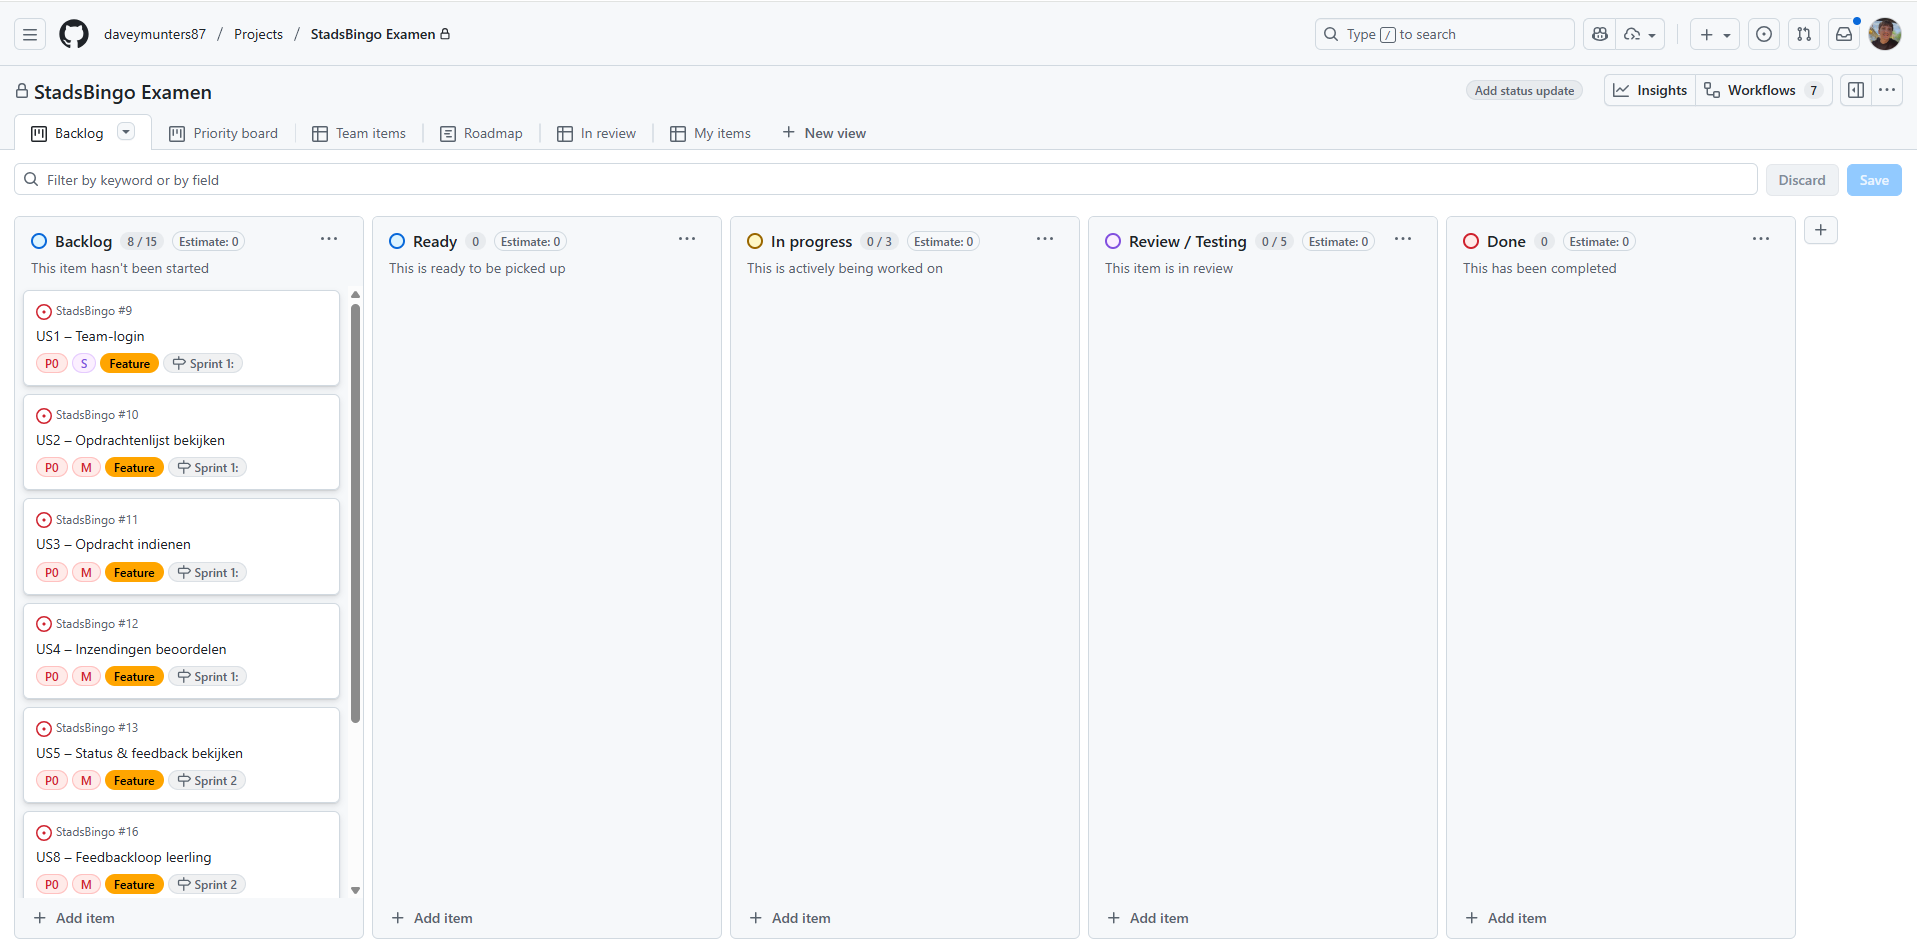
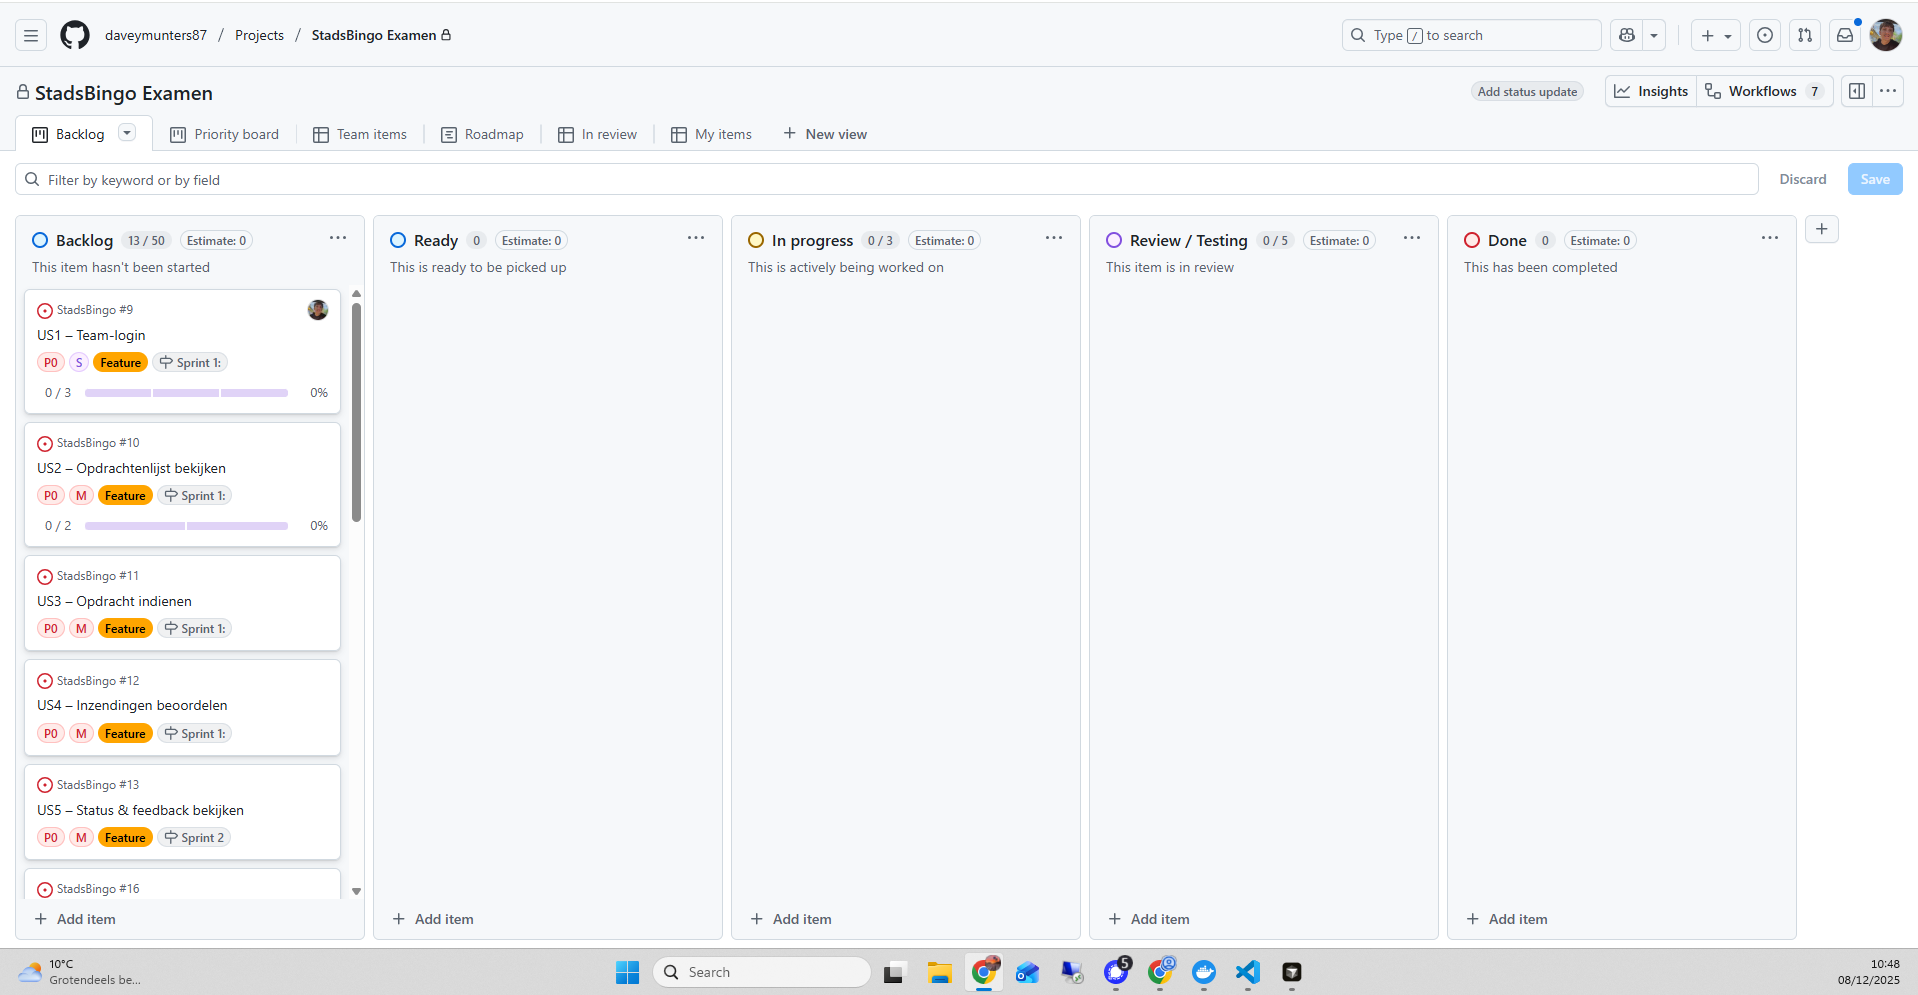
Start of sprint1

diff --git a/examen/dagplanning.md b/examen/dagplanning.md
@@ -1,0 +1,58 @@
+# Dagplanning – StadsBingo
+
+Handig om criteria 1.1–1.4 meteen te dekken (stories, planning, voortgangsbewaking). Vul per dag kort aan wat je echt hebt gedaan en voeg links/snapshots toe.
+
+## Dag 1 (start)
+- Backlog klaarzetten: zorg dat alle user stories uit `01_plant_werkzaamheden.md` in je board/tool staan (incl. MoSCoW en uren). Noteer ticket-IDs in de stories.
+- Planning controleren: check dat Sprint 1 stories overeenkomen met de planningstabel (10u vs 40u capaciteit). Pas aan als nodig en log een korte motivatie.
+- Screenshot sprint board (begin): plaats in `examen/bewijsmateriaal/01/sprint1_start.png` (of vervang als er al een staat).
+- Projectomschrijving & DoD: verifieer dat de omschrijving/DoD in `01_plant_werkzaamheden.md` klopt met de huidige scope; maak zo nodig een mini-update met een korte notitie in dit bestand (geen grote tekstblokken).
+- Repo-check: zorg dat branches/commits klaarstaan; maak eerste commit “chore: init sprint 1 planning” zodra board en planning op orde zijn.
+- Notitie voortgang: noteer in dit bestand (onder “Dag 1 – log”) wat je vandaag hebt gepland/besloten.
+
+## Dag 2
+- Ontwikkel focus: pak “Inloggen met teamcode” en “Opdrachtenlijst” op. Werk in kleine commits.
+- Bewijs: screenshot van board met statusupdate (bijv. tickets in In Progress) en plaats in `examen/bewijsmateriaal/01/`.
+- Korte log (in dit bestand): wat gestart/afgerond, blokkades, keuzes.
+
+## Dag 3
+- Ontwikkel focus: “Inzendingen beoordelen” + afronden leerling-flow basis.
+- Bewijs: nieuwe board-screenshot met voortgang; link in log.
+- Eventuele demo/gif van basisflow (optioneel) toevoegen aan `examen/bewijsmateriaal/01/`.
+
+## Dag 4
+- Bugfix/afmaken Sprint 1 DoD. Kleine UX fixes als tijd over is.
+- Retro voorbereiden: noteer wat goed/fout ging, doorlooptijd per story (korte bullets hier).
+- Bewijs: eind-screenshot Sprint 1 board (`sprint1_end.png`), commitlijst updaten.
+
+## Dag 5
+- Sprint 2 planning bijwerken (filters/voortgangsvisuals). Controleer uren vs 40u capaciteit.
+- Screenshot Sprint 2 start board (`sprint2_start.png`).
+- Start implementatie filters of voortgangsbalken.
+
+## Dag 6
+- Ontwikkel focus: voortgangsbalken + status/feedback weergave.
+- Bewijs: board-screenshot + korte log (beslissingen/afwegingen).
+- Eventueel korte video/gif van voortgangsweergave.
+
+## Dag 7
+- Afronden Sprint 2 DoD, restpunten/bugs wegwerken.
+- Eind-screenshot Sprint 2 board (als relevant) en korte afsluitlog.
+- Check documentatie: `01_plant_werkzaamheden.md` en bewijsbestanden up-to-date.
+
+---
+
+### Logs (vul per dag aan)
+- Dag 1:
+Vandaag zijn we begonnen met sprint1. Voor dag 1 willen we graag alles op orde hebben wat er moet gebeuren en welke bewijsmaterialen er voor, tijdens en na de sprint aangeleverd moeten worden. Vandaag gaan we bezig met:
+    - Planning sprint 1
+    - Bewijsmaterialen aanleveren
+    - Repo structure opzetten.
+
+- Dag 2: …
+- Dag 3: …
+- Dag 4: …
+- Dag 5: …
+- Dag 6: …
+- Dag 7: …
+

diff --git a/examen/bewijsmateriaal/01/commit_list_sprint1.md b/examen/bewijsmateriaal/01/commit_list_sprint1.md
@@ -1,6 +1,6 @@
 # Sprint 1 – Commit overzicht
 
-**Periode:** 17-11-2025 t/m 01-12-2025  
+**Periode:** 08-12-2025 t/m 08-01-2026  
 **Project:** StadsBingo  
 
 ---
@@ -10,11 +10,7 @@ Hieronder een overzicht van belangrijke commits in Sprint 1. Screenshots kunnen 
 
 | Datum | Commit ID / Screenshot | Beschrijving | User Story | Auteur |
 |-------|----------------------|------------|-----------|-------|
-| 05-11-2025 | `abc123` ![screenshot](screenshot1.png) | Basis Team-login feature aangemaakt | US1 | Persoon A |
-| 07-11-2025 | `def456` ![screenshot](screenshot2.png) | Opdrachtenlijst component toegevoegd | US2 | Persoon B |
-| 10-11-2025 | `ghi789` ![screenshot](screenshot3.png) | Submission flow (`Pending` status) toegevoegd | US3 | Persoon B |
-| 12-11-2025 | `jkl012` ![screenshot](screenshot4.png) | Docent filters feature | US6 | Persoon A |
-| 15-11-2025 | `mno345` ![screenshot](screenshot5.png) | Notificatie placeholder toegevoegd | US8 | Persoon B |
+| 08-12-2025 | n.v.t. (documentatie) | Documentatie-update planning/bewijs (geen codecommit) | Planning (1.3/1.4) | Davey & Jada |
 
 ---
 
@@ -28,7 +24,7 @@ Hieronder een overzicht van belangrijke commits in Sprint 1. Screenshots kunnen 
 
 # 3. Dagelijkse voortgang & Kanban screenshots (Sprint 1)
 
-**Eis:** Binnen deze sprint wordt elke dag een screenshot gemaakt van het Scrum/Kanban board.  
+**Eis:** Binnen deze sprint wordt elke dag een screenshot gemaakt van het Scrum board.  
 Hierbij staat telkens een toelichting over hoe de planning (uit opdracht 1.3) zich verhoudt tot de actuele voortgang en of er aanpassingen zijn gedaan.
 
 > *Screenshots worden opgeslagen in:*  
@@ -36,54 +32,12 @@ Hierbij staat telkens een toelichting over hoe de planning (uit opdracht 1.3) zi
 
 ---
 
-## 📅 Dag 1 – 17-11-2025
-![screenshot](./sprint1/dag1-board.png)
+## 📅 Dag 1 – 08-12-2025
+![screenshot](./sprint1_start.png)
 
-**Planning:** US1 – Team-login backend (Davey / Jada)  
-**Voortgang:** Repo opgezet, project structuur aangemaakt en skelet voor api gemaakt.  
+**Planning:** Taken verdelen en project structuur opzetten. (Davey/Jada)
+**Voortgang:** Repo opgezet, project structuur aangemaakt en taken verdeeld.
 **Aanpassing planning:** Geen aanpassing, op schema
 
 ---
 
-## 📅 Dag 2 – 18-11-2025
-![screenshot](./sprint1/dag2-board.png)
-
-**Planning:** Databaseconfig + Team-login frontend (Persoon B)  
-**Voortgang:** ER-modellen gezet, valideren teamcode werkt, frontend login gekoppeld  
-**Aanpassing planning:** Geen aanpassing
-
----
-
-## 📅 Dag 3 – 19-11-2025
-![screenshot](./sprint1/dag3-board.png)
-
-**Planning:** US2 – Opdrachtenlijst bekijken (Persoon B)  
-**Voortgang:** Opdrachten seed + model, basis UI component toegevoegd  
-**Aanpassing planning:** Geen aanpassing
-
----
-
-## 📅 Dag 4 – 20-11-2025
-![screenshot](./sprint1/dag4-board.png)
-
-**Planning:** US3 – Opdracht indienen (Persoon B)  
-**Voortgang:** Submission flow toegevoegd, Pending status werkend, routing naar opdracht detail  
-**Aanpassing planning:** Review feature verschoven naar morgen, complexiteit hoger
-
----
-
-## 📅 Dag 5 – 21-11-2025
-![screenshot](./sprint1/dag5-board.png)
-
-**Planning:** US6 – Docent filters & feedbackloop voorbereiden (Persoon A)  
-**Voortgang:** Filters toegepast, view docent overzicht werkend  
-**Aanpassing planning:** Feedback feature naar dag 6
-
----
-
-## 📅 Dag 6 – 22-11-2025
-![screenshot](./sprint1/dag6-board.png)
-
-**Planning:** US8 – Feedbackloop implementeren (Persoon B)  
-**Voortgang:** Feedbackloop toegevoegd, notificatie placeholder toegevoegd  
-**Aanpassing planning:** Sprint 1 afgerond binnen scope

diff --git a/examen/01_plant_werkzaamheden.md b/examen/01_plant_werkzaamheden.md
@@ -190,6 +190,29 @@ Een user story is **done** wanneer:
 
 ---
 
+### 📌 Planning-overzicht (Criterium 1.3)
+
+**Aannames capaciteit**
+- Team van 2 studenten (Davey, Jada), beschikbaar ±10 uur per week per persoon.
+- Sprintduur: 2 weken → totale capaciteit per sprint ≈ 2 pers × 2 weken × 10u = **40 uur**.
+
+**Werkload vs. capaciteit per sprint**
+
+| Sprint | Stories (met inschatting) | Totaal uren | Past binnen 40u? |
+|--------|---------------------------|-------------|------------------|
+| Sprint 1 | Inloggen teamcode (2u), Opdrachtenlijst (4u), Inzendingen beoordelen (4u) | **10u** | ✅ Ruime slack voor onvoorziene zaken |
+| Sprint 2 | Filter docentoverzicht (2u), Visuele voortgang (4u), Opdracht indienen & feedback (2–4u, gerekend 4u), Status & feedback tonen (2u) | **12u** | ✅ Slack aanwezig |
+
+**Waarom realistisch?**
+- Alle must-haves (inloggen, opdrachtenlijst, indienen, beoordelen) staan in Sprint 1; should-haves verschuiven naar Sprint 2.
+- Uren per sprint liggen ruim onder de beschikbare 40u, zodat er ruimte is voor bugs en iteraties.
+- Stories zijn al voorzien van MoSCoW + tijdsinschatting en sluiten aan op de DoD.
+
+**Bewijs stukken planning/voortgang**
+- Zie het overzicht in de sectie hieronder onder `Voortgangsbewaking`.
+
+---
+
 ## 🧾 Voortgangsbewaking (Criterium 1.4)
 
 **Doel:** aantonen dat voortgang actief is bewaakt en keuzes zijn gemaakt o.b.v. prioriteit.